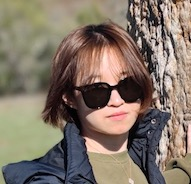
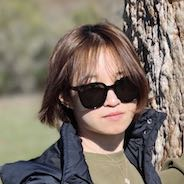
home and page hyperlink

diff --git a/index.html b/index.html
@@ -30,7 +30,7 @@
         <div class="container">     
 	        <div class="row align-items-center">
 			    <div class="col">         
-		            <img class="profile-image img-fluid float-start rounded-circle" src="assets/images/profile.jpeg" alt="my profile image" />
+		            <img id="profile" class="profile-image img-fluid float-start rounded-circle" src="assets/images/profile.jpeg" alt="my profile image" />
 		            <div class="profile-content">
 		                <h1 class="name">Xinyao Chen</h1>
 		                <h2 class="desc">Software Engineer</h2>   
@@ -49,8 +49,13 @@
 							<label class="custom-control-label" for="darkSwitch">Dark Mode</label>
 						</div>
 			        </div><!--//dark-mode-switch-->
-	                <a class="btn btn-cta-primary" href="mailto:chen.xinyao@northeastern.edu" target="_blank"><i class="fas fa-paper-plane"></i> Contact Me</a>        
+	                <a class="btn btn-cta-primary" href="mailto:chen.xinyao@northeastern.edu" target="_blank"><i class="fas fa-paper-plane"></i> Contact Me</a>
+                    <div class="content">
+                        <a style = "color:gray;line-height: 50px;" href="https://ccxxyy23.github.io/index.html" target="_blank"></i>Home</a> |
+                        <a style="color:gray" href="https://ccxxyy23.github.io/project.html" target="_blank"></i> Projects</a>
+                    </div><!--//content-->        
 	            </div><!--//col-->
+                
 	        </div><!--//row-->         
         </div><!--//container-->
     </header><!--//header-->
@@ -62,7 +67,7 @@
                     <div class="section-inner shadow-sm rounded">
                         <h2 class="heading">About Me</h2>
                         <div class="content">
-                            <p>I'm Xinyao, a master's student in computer science at Northeastern University. I've been at it for three semesters now. I'm pretty comfortable with Python, Java, and web development. I'm also all about teamwork – I love collaborating and coming up with creative solutions. Right now, I'm on the lookout for a software engineer internship where I can sharpen my skills and make a real impact.</p>
+                            <p>I'm Xinyao, a master's student in computer science at Northeastern University. I've been at it for two semesters now. I'm pretty comfortable with Python, Java, and web development. I'm also all about teamwork – I love collaborating and coming up with creative solutions. Right now, I'm on the lookout for a software engineer internship where I can sharpen my skills and make a real impact.</p>
                         </div><!--//content-->
                     </div><!--//section-inner-->                 
                 </section><!--//section-->
@@ -73,14 +78,14 @@
                         <div class="content">
                             <div class="item">                      
                                 <h3 class="title"><i class="fas fa-graduation-cap"></i> Northeastern University</h3>
-                                <h4 class="university">MSc Computer Science <span class="year">(2023 - now)</span></h4>
+                                <h4 class="title" style="padding-left: 25px;">MSc Computer Science <span class="year">(2023 - now)</span></h4>
                                 <p style="padding-left: 25px;"> Courses: Algorithm and data structure, OOD, web development, database management
                                     <br/>TA for course Discrete Math</p>
                     
                             </div><!--//item-->
                             <div class="item">
                                 <h3 class="title"><i class="fas fa-graduation-cap"></i> East China University of Science and Technology</h3>
-                                <h4 class="university" style="display: inline">BSc Chemical Engineering <span class="year">(2016 - 2020)</span></h4>
+                                <h4 class="title" style="padding-left: 25px;">BSc Chemical Engineering <span class="year">(2016 - 2020)</span></h4>
                                 <p style="padding-left: 25px;"> GPA: 3.65/4.0, Outstanding Student Scholarship</p>
                             </div><!--//item-->
                         </div><!--//content-->
@@ -94,10 +99,12 @@
                         <h2 class="heading">Work Experience</h2>
                         <div class="content">
                             <div class="item">
-                                <h3 class="title">Project Manager - <span class="place"><a href="#">Startup Hub</a></span> <span class="year">(2020 - 2022)</span></h3>
-                                <p>Led the successful launch of an outsourced project for developing an occupational health knowledge and education platform, which is now used by 300+ companies in East China for standardized EHS training.
-                                    Effectively communicated with internal and external stakeholders, including EHS experts, educators, and factory managers to gather and iterate requirements; Provide clear requirement documents for the software development teams and hold weekly update meeting to maintain alignment with project goals and timelines
-                                    Organized and executed a comprehensive beta test involving five factories, effectively collecting and analyzing feedback to drive iterative development and enhancements of the occupational health education platform.</p>
+                                <h3 class="title">Project Manager - <span class="place">Shanghai Occupational Safety & Health Institute</span> <span class="year">(2020 - 2022)</span></h3>
+                                <ul>
+                                    <li>Led the successful launch of an outsourced project for developing an occupational health knowledge and education platform, which is now used by 300+ companies in East China for standardized EHS training.</li>
+                                    <li>Effectively communicated with internal and external stakeholders, including EHS experts, educators, and factory managers to gather and iterate requirements; Provide clear requirement documents for the software development teams and hold weekly update meeting to maintain alignment with project goals and timeline.</li>
+                                    <li>Organized and executed a comprehensive beta test involving five factories, effectively collecting and analyzing feedback to drive iterative development and enhancements of the occupational health education platform.</li>
+                                </ul>
                             </div><!--//item-->
                             
                         </div><!--//content-->  
@@ -124,10 +131,6 @@
                     <div class="section-inner shadow-sm rounded">
                         <h2 class="heading">Skills</h2>
                         <div class="content">
-                            <p class="intro">
-                                Programming Language: Java, Python, C/C++, JavaScript
-                                Web Development: React, Material-UI, GraphQL
-                                Projetc Management: GitLab</p>
                             
                             <div class="skillset">
                                
@@ -156,6 +159,13 @@
                                     <h3 class="level-title">React</h3>
                                     <div class="level-bar progress">
 									    <div class="progress-bar level-bar-inner" role="progressbar" style="width: 90%" aria-valuenow="90"  aria-valuemin="0" aria-valuemax="90"></div>
+									</div><!--//level-bar-->                                   
+                                </div><!--//item-->
+
+                                <div class="item">
+                                    <h3 class="level-title">Project Management</h3>
+                                    <div class="level-bar progress">
+									    <div class="progress-bar level-bar-inner" role="progressbar" style="width: 95%" aria-valuenow="90"  aria-valuemin="0" aria-valuemax="90"></div>
 									</div><!--//level-bar-->                                   
                                 </div><!--//item-->
                             

diff --git a/project.html b/project.html
@@ -30,7 +30,7 @@
         <div class="container">     
 	        <div class="row align-items-center">
 			    <div class="col">         
-		            <img class="profile-image img-fluid float-start rounded-circle" src="assets/images/profile.jpeg" alt="my profile image" />
+		            <img id="profile" class="profile-image img-fluid float-start rounded-circle" src="assets/images/profile.jpeg" alt="my profile image" />
 		            <div class="profile-content">
 		                <h1 class="name">Xinyao Chen</h1>
 		                <h2 class="desc">Software Engineer</h2>   
@@ -49,7 +49,11 @@
 							<label class="custom-control-label" for="darkSwitch">Dark Mode</label>
 						</div>
 			        </div><!--//dark-mode-switch-->
-	                <a class="btn btn-cta-primary" href="mailto:chen.xinyao@northeastern.edu" target="_blank"><i class="fas fa-paper-plane"></i> Contact Me</a>        
+	                <a class="btn btn-cta-primary" href="mailto:chen.xinyao@northeastern.edu" target="_blank"><i class="fas fa-paper-plane"></i> Contact Me</a> 
+                    <div class="content">
+                        <a style = "color:gray;line-height: 50px;" href="https://ccxxyy23.github.io/index.html" target="_blank"></i>Home</a> |
+                        <a style="color:gray" href="https://ccxxyy23.github.io/project.html" target="_blank"></i> Projects</a>
+                    </div><!--//content-->            
 	            </div><!--//col-->
 	        </div><!--//row-->         
         </div><!--//container-->
@@ -165,32 +169,38 @@
                             <div class="skillset">
                                
                                 <div class="item">
-                                    <h3 class="level-title">Python &amp; Django<span class="level-label" data-bs-toggle="tooltip" data-bs-placement="left" title="You can use the tooltip to explain more about your skill level..."><i class="fas fa-info-circle"></i>Expert</span></h3>
-
+                                    <h3 class="level-title">Python &amp; Django</h3>
                                     <div class="level-bar progress">
 									    <div class="progress-bar level-bar-inner" role="progressbar" style="width: 96%" aria-valuenow="96"  aria-valuemin="0" aria-valuemax="96"></div>
 									</div><!--//level-bar-->                               
                                 </div><!--//item-->
-                                
+
                                 <div class="item">
-                                    <h3 class="level-title">Javascript &amp; jQuery<span class="level-label" data-bs-toggle="tooltip" data-bs-placement="left" title="You can use the tooltip to explain more about your skill level..."><i class="fas fa-info-circle"></i>Expert</span></h3>
+                                    <h3 class="level-title">Java &amp; Springboot</h3>
                                     <div class="level-bar progress">
 									    <div class="progress-bar level-bar-inner" role="progressbar" style="width: 94%" aria-valuenow="94"  aria-valuemin="0" aria-valuemax="94"></div>
-									</div><!--//level-bar-->                                   
+									</div><!--//level-bar-->                               
                                 </div><!--//item-->
-                                
+
                                 <div class="item">
-                                    <h3 class="level-title">HTML5, CSS3, SASS &amp; LESS<span class="level-label" data-bs-toggle="tooltip" data-bs-placement="left" title="You can use the tooltip to explain more about your skill level..."><i class="fas fa-info-circle"></i>Expert</span></h3>
+                                    <h3 class="level-title">HTML5, CSS3, JavaScript</h3>
                                     <div class="level-bar progress">
 									    <div class="progress-bar level-bar-inner" role="progressbar" style="width: 93%" aria-valuenow="93"  aria-valuemin="0" aria-valuemax="96"></div>
 									</div><!--//level-bar-->                                  
                                 </div><!--//item-->
                                 
                                 <div class="item">
-                                    <h3 class="level-title">Ruby on Rails<span class="level-label" data-bs-toggle="tooltip" data-placement="left" title="You can use the tooltip to explain more about your skill level..."><i class="fas fa-info-circle"></i>Pro</span></h3>
+                                    <h3 class="level-title">React</h3>
                                     <div class="level-bar progress">
-									    <div class="progress-bar level-bar-inner" role="progressbar" style="width: 86%" aria-valuenow="86"  aria-valuemin="0" aria-valuemax="96"></div>
-									</div><!--//level-bar-->                                  
+									    <div class="progress-bar level-bar-inner" role="progressbar" style="width: 90%" aria-valuenow="90"  aria-valuemin="0" aria-valuemax="90"></div>
+									</div><!--//level-bar-->                                   
+                                </div><!--//item-->
+
+                                <div class="item">
+                                    <h3 class="level-title">Project Management</h3>
+                                    <div class="level-bar progress">
+									    <div class="progress-bar level-bar-inner" role="progressbar" style="width: 95%" aria-valuenow="90"  aria-valuemin="0" aria-valuemax="90"></div>
+									</div><!--//level-bar-->                                   
                                 </div><!--//item-->
                                 
                                 <p><a class="more-link" href="#"><i class="fas fa-external-link-alt"></i>More on GitHub</a></p> 

diff --git a/assets/js/main.js b/assets/js/main.js
@@ -8,4 +8,16 @@ var tooltipList = tooltipTriggerList.map(function (tooltipTriggerEl) {
 
 
 
-    
+const myImage = document.querySelector("#profile");
+
+myImage.onmouseover = () => {
+    const mySrc = myImage.getAttribute("src");
+      myImage.setAttribute("src", "assets/images/profile2.jpeg");
+  };
+
+myImage.onmouseout = () => {
+  const mySrc = myImage.getAttribute("src");
+    myImage.setAttribute("src", "assets/images/profile.jpeg");
+};
+
+
